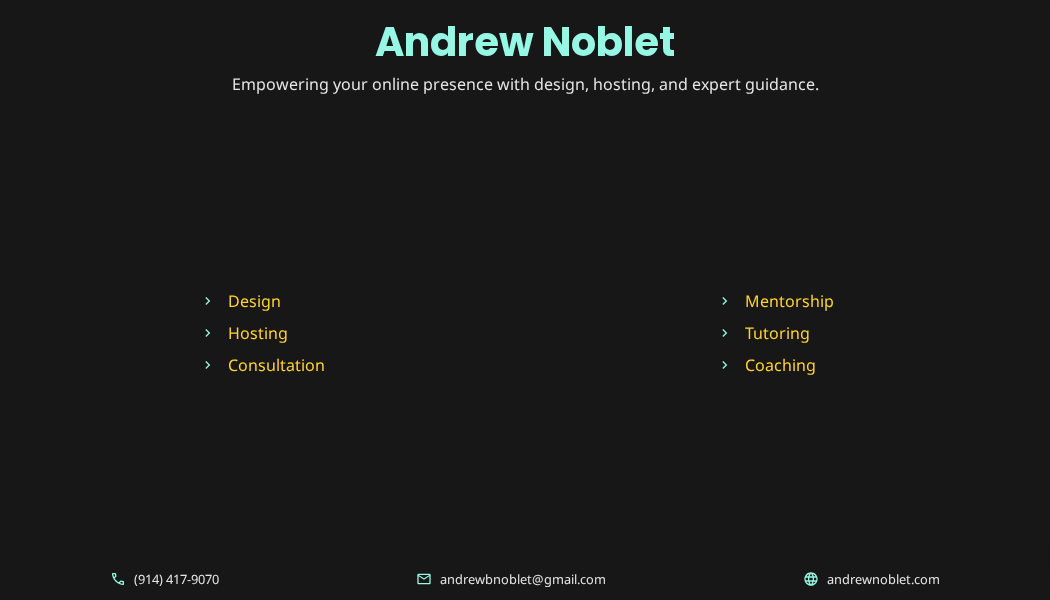
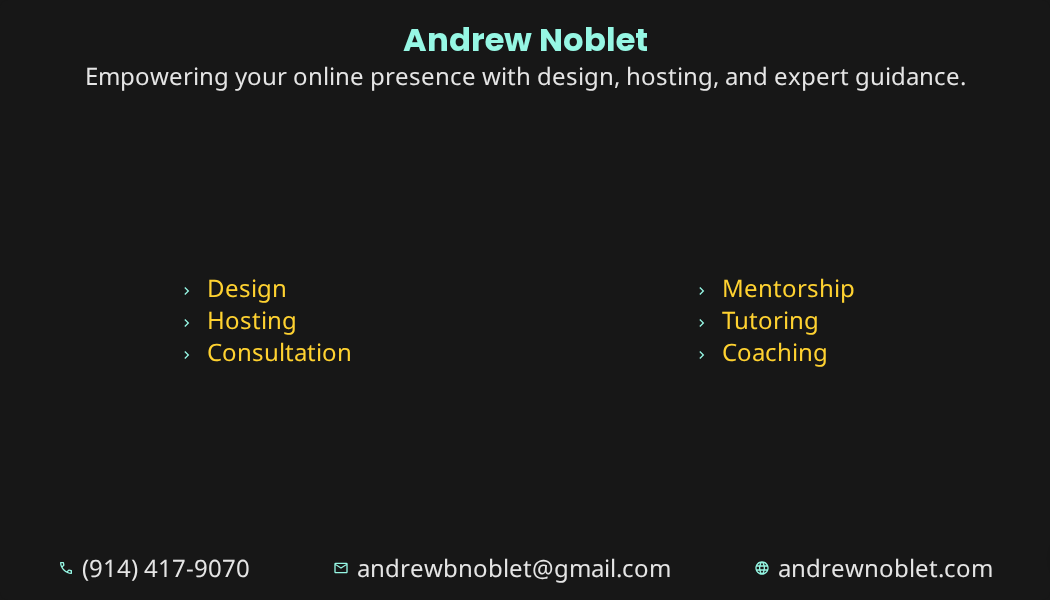
feat(ui,about,docs,styles): enhance about page, update docs, improve layout and accessibility
Expand about page with authentic personal content, improve profile image handling, and reorganize interests for clarity. Update project and architecture documentation for consistency, clarify memory and validation protocols, and separate tool-specific instructions. Refactor instructions and component styles for better logical flow and maintainability. Improve business card and portfolio layouts, add utility CSS classes, and enhance accessibility with aria-labels and keyboard navigation. Adjust pricing, navigation fade, and spacing based on user feedback. Validate all changes visually and functionally with Playwright MCP.

diff --git a/src/components/business-card.ts b/src/components/business-card.ts
@@ -34,14 +34,6 @@ export class BusinessCard extends Base {
         }
       }
 
-      .padding {
-        padding: 0.75rem;
-      }
-
-      .small {
-        font-size: 0.8rem;
-      }
-
       .sky-200 {
         color: var(--color-sky-200);
       }
@@ -69,25 +61,27 @@ export class BusinessCard extends Base {
             </div>
           `
         : html`
-            <div class="column flex padding width-100">
-              <h1 class="text-align-center">Andrew Noblet</h1>
-              <p class="text-align-center">
+            <div
+              class="column flex padding justify-content-space-around width-100"
+            >
+              <h1 class="font-size-2 text-align-center">Andrew Noblet</h1>
+              <p class="font-size-1-5 text-align-center">
                 Empowering your online presence with design, hosting, and expert
                 guidance.
               </p>
-              <div class="align-items-center flex flex-1 space-around">
-                <ul class="amber-300">
+              <div class="align-items-center flex space-around">
+                <ul class="amber-300 font-size-1-5">
                   <li>Design</li>
                   <li>Hosting</li>
                   <li>Consultation</li>
                 </ul>
-                <ul class="amber-300">
+                <ul class="amber-300 font-size-1-5">
                   <li>Mentorship</li>
                   <li>Tutoring</li>
                   <li>Coaching</li>
                 </ul>
               </div>
-              <div class="flex small space-around">
+              <div class="flex font-size-1-5 space-around">
                 <span class="flex gap-0-5">
                   <icon-component>${phone}</icon-component>
                   (914) 417-9070

diff --git a/src/styles/utility.ts b/src/styles/utility.ts
@@ -1,6 +1,10 @@
 import { css } from 'lit';
 
 export const utility = css`
+  .align-content-space-around {
+    align-content: space-around;
+  }
+
   .align-items-center {
     align-items: center;
   }
@@ -47,6 +51,10 @@ export const utility = css`
 
   .height-0-5 {
     height: 0.5rem;
+  }
+
+  .justify-content-space-around {
+    justify-content: space-around;
   }
 
   .space-around {
